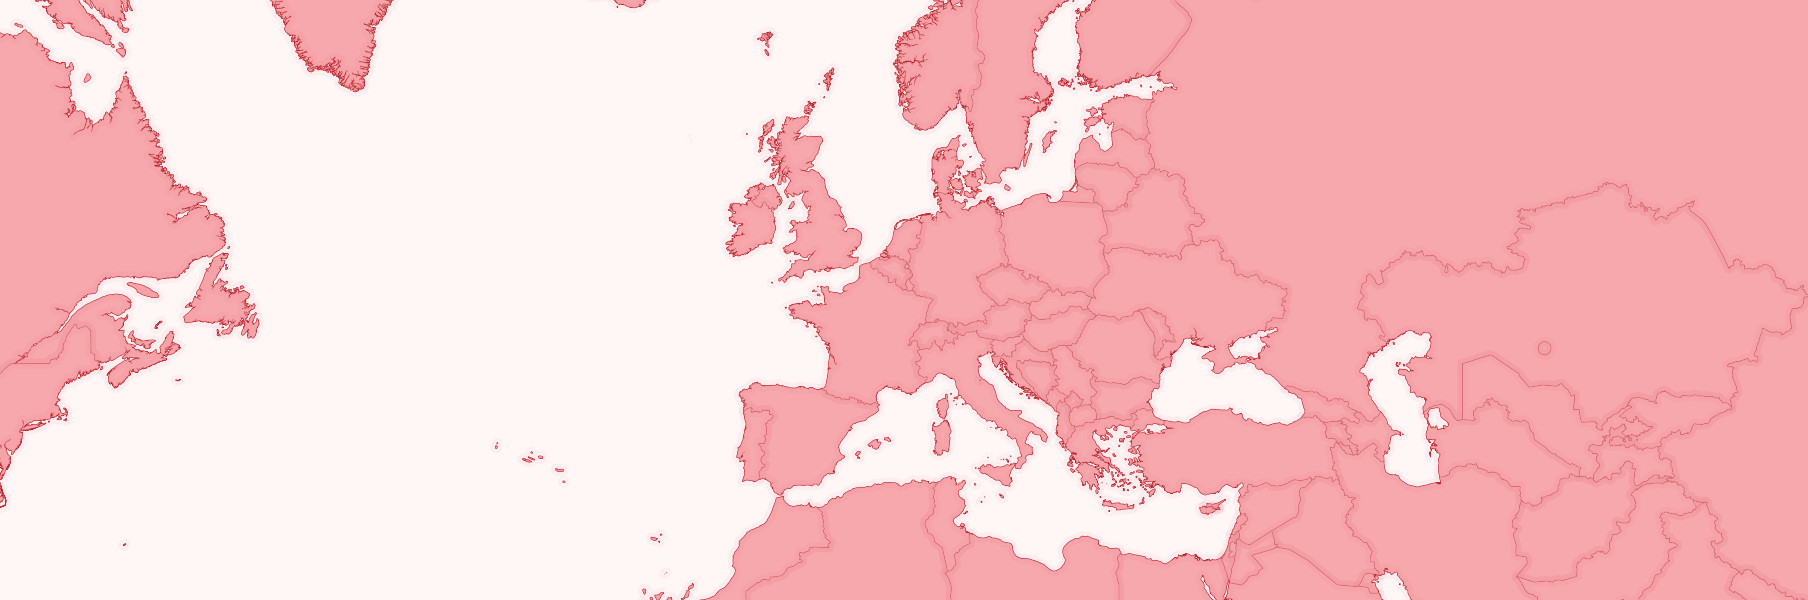
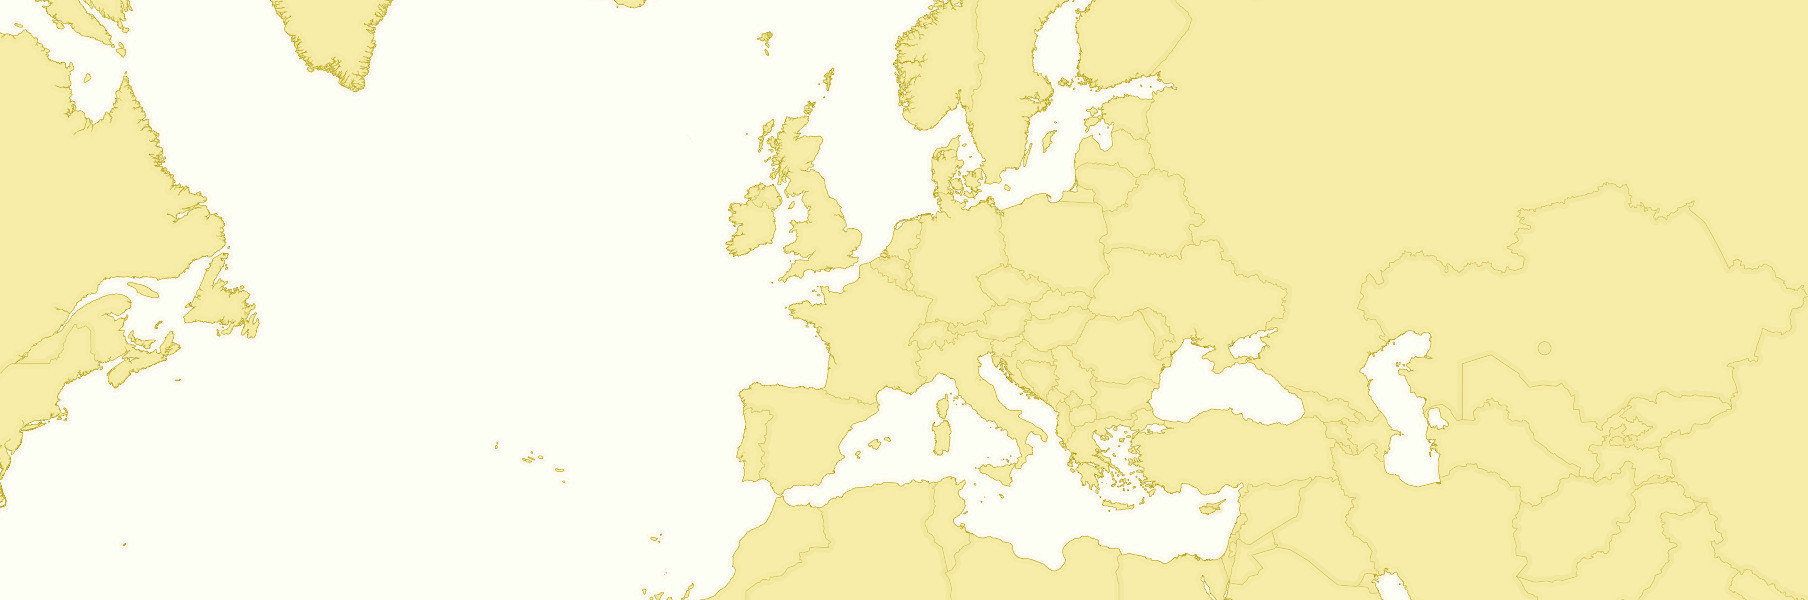
Switch to golden colors

diff --git a/public/stylesheets/style.css b/public/stylesheets/style.css
@@ -953,15 +953,16 @@ header h1 small{font-size:25px;padding-top:1px;color:black;}
 #team li:hover .pp{-webkit-transform:rotateY(180deg);-moz-transform:rotateY(180deg);-ms-transform:rotateY(180deg);-o-transform:rotateY(180deg);transform:rotateY(180deg);opacity:0;filter:alpha(opacity=0);}
 #team li:hover .link{-webkit-transform:rotateY(0deg);-moz-transform:rotateY(0deg);-ms-transform:rotateY(0deg);-o-transform:rotateY(0deg);transform:rotateY(0deg);opacity:1;filter:alpha(opacity=100);}.no-csstransforms3d #team li:hover .link{display:block;}
 #jpp-intro{margin:0;margin-top:60px;background:#b4131d;color:white;font-family:'Dinl',sans-serif;font-size:16px;font-weight:bold;padding:5px 0;}
-#jpp-network{position:relative;overflow:hidden;-webkit-box-shadow:0 0 80px 0 #B4131D inset, 0 1px 0 0 rgba(255,255,255,1);-moz-box-shadow:0 0 80px 0 #B4131D inset, 0 1px 0 0 rgba(255,255,255,1);box-shadow:0 0 80px 0 #B4131D inset, 0 1px 0 0 rgba(255,255,255,1);border:1px solid rgba(180, 19, 29, 0.4);}#jpp-network .world{width:100%;min-width:100%;max-width:100%;opacity:0.8;filter:alpha(opacity=80);}
+#jpp-network{position:relative;overflow:hidden;-webkit-box-shadow:0 0 80px 0 #E5B940 inset, 0 1px 0 0 rgba(255,255,255,1);-moz-box-shadow:0 0 80px 0 #E5B940 inset, 0 1px 0 0 rgba(255,255,255,1);box-shadow:0 0 80px 0 #E5B940 inset, 0 1px 0 0 rgba(255,255,255,1);border:1px solid rgba(180, 19, 29, 0.4);}#jpp-network .world{width:100%;min-width:100%;max-width:100%;opacity:0.8;filter:alpha(opacity=80);}
 #jpp-network .place-list{margin:0;padding:0;}#jpp-network .place-list a{padding:20px;background:#E2D6D3;display:block;font-size:18px;font-weight:bold;text-align:center;}
 #jpp-network .place-markers{position:absolute;top:0;left:0;bottom:0;right:0;padding:0;margin:0;}#jpp-network .place-markers .place{list-style:none;margin:0;padding:0;position:absolute;top:0;left:0;width:100px;height:0;text-align:center;}#jpp-network .place-markers .place.paris{top:53%;left:48%;}
 #jpp-network .place-markers .place.berlin{top:39%;left:54%;}
 #jpp-network .place-markers .place.stockholm{top:16.6%;left:57%;}
-#jpp-network .place-markers .place a{font-family:'Dinl',sans-serif;font-weight:bold;position:relative;z-index:10;display:block;position:absolute;width:100px;bottom:6px;left:-50px;padding:3px 0;text-align:center;}#jpp-network .place-markers .place a .bg{position:relative;padding:3px 6px;background:#b4131d;color:white;-webkit-box-shadow:0 0 10px 0 rgba(180, 19, 29, 0.6);-moz-box-shadow:0 0 10px 0 rgba(180, 19, 29, 0.6);box-shadow:0 0 10px 0 rgba(180, 19, 29, 0.6);-webkit-border-radius:2px;-moz-border-radius:2px;border-radius:2px;}
-#jpp-network .place-markers .place a:hover{text-decoration:none;}#jpp-network .place-markers .place a:hover .bg:before{right:-16px;color:white;}
-#jpp-network .place-markers .place a .bg:before{content:"▸";line-height:20px;font-size:16px;color:#b4131d;position:absolute;z-index:-1;top:0;bottom:0;right:0;width:20px;background:#b4131d;-webkit-border-radius:0 2px 2px 0;-moz-border-radius:0 2px 2px 0;border-radius:0 2px 2px 0;-webkit-transition:0.4s;-moz-transition:0.4s;-ms-transition:0.4s;-o-transition:0.4s;transition:0.4s;}
+#jpp-network .place-markers .place a{font-family:'Dinl',sans-serif;font-weight:bold;position:relative;z-index:10;display:block;position:absolute;width:100px;bottom:6px;left:-50px;padding:3px 0;text-align:center;}#jpp-network .place-markers .place a .bg{position:relative;padding:3px 6px;background:#b4131d;color:white;-webkit-border-radius:2px;-moz-border-radius:2px;border-radius:2px;}#jpp-network .place-markers .place a .bg:after{content:" +";color:white;line-height:20px;font-size:16px;}
+#jpp-network .place-markers .place a:hover{text-decoration:none;}#jpp-network .place-markers .place a:hover .bg{padding-right:0;margin-left:-6px;-webkit-transition:0.4s;-moz-transition:0.4s;-ms-transition:0.4s;-o-transition:0.4s;transition:0.4s;}
+#jpp-network .place-markers .place a:hover .bg:before{right:-15px;color:white;}
+#jpp-network .place-markers .place a .bg:before{content:"+";line-height:21px;font-size:16px;color:#b4131d;position:absolute;z-index:-1;top:0;bottom:0;right:0;width:20px;background:#b4131d;-webkit-border-radius:0 2px 2px 0;-moz-border-radius:0 2px 2px 0;border-radius:0 2px 2px 0;-webkit-transition:0.4s;-moz-transition:0.4s;-ms-transition:0.4s;-o-transition:0.4s;transition:0.4s;}
 #jpp-network .place-markers .place a:after{content:"";border:6px transparent solid;border-top:6px solid #b4131d;position:absolute;top:99%;left:50%;margin-top:-1px;margin-left:-3px;}
 footer{padding:40px 0;color:#555;text-shadow:1px 1px 0 white;-webkit-transition:0.6s;-moz-transition:0.6s;-ms-transition:0.6s;-o-transition:0.6s;transition:0.6s;}footer:hover{color:#000;}
-@media (min-width:768px) and (max-width:979px){h1 small{display:block;margin-left:0 !important;} #portfolio-nav{height:20px;}#portfolio-nav li{width:20px;height:20px;}}@media (max-width:767px){h1 small{display:block;margin-left:0 !important;} #portfolio-nav{height:20px;}#portfolio-nav li{width:20px;height:20px;} #portfolio:before,#portfolio:after{display:none !important;} #portfolio .span12{float:left !important;width:100px;} #portfolio .view,#portfolio .about .row{margin:0;} #portfolio .legend{width:80% !important;right:10%;text-align:right !important;}#portfolio .legend .hidden-phone{display:block !important;position:absolute;top:999999px;left:999999px;width:150px;} #team{margin-left:-30px;}#team li{clear:left;text-align:left !important;}#team li h3{padding-top:20px;} #team .pp{float:left !important;margin-right:20px !important;} #team .link{left:55px !important;text-align:center;}}#manifest ol{padding:0;width:80%;margin:auto;counter-reset:bullet;}#manifest ol li{counter-increment:bullet;margin-bottom:10px;padding-top:20px;list-style:none;padding-left:60px;padding-right:60px;position:relative;text-align:left;}#manifest ol li:before{font-family:'Dinl',sans-serif;position:absolute;top:50%;left:0;margin-top:-10px;content:counter(bullet);background:#b4131d;color:white;height:10px;width:40px;padding:15px 0;text-align:center;font-size:20px;line-height:10px;-webkit-border-radius:50%;-moz-border-radius:50%;border-radius:50%;}
+@media (min-width:768px) and (max-width:979px){h1 small{display:block;margin-left:0 !important;} #portfolio-nav{height:20px;}#portfolio-nav li{width:20px;height:20px;}}@media (max-width:767px){h1 small{display:block;margin-left:0 !important;} #portfolio-nav{height:20px;}#portfolio-nav li{width:20px;height:20px;} #portfolio:before,#portfolio:after{display:none !important;} #portfolio .span12{float:left !important;width:100px;} #portfolio .view,#portfolio .about .row{margin:0;} #portfolio .legend{width:80% !important;right:10%;text-align:right !important;}#portfolio .legend .hidden-phone{display:block !important;position:absolute;top:999999px;left:999999px;width:150px;} #team{margin-left:-30px;}#team li{clear:left;text-align:left !important;}#team li h3{padding-top:20px;} #team .pp{float:left !important;margin-right:20px !important;} #team .link{left:55px !important;text-align:center;}}#manifest ol{padding:0;width:80%;margin:auto;counter-reset:bullet;}#manifest ol li{counter-increment:bullet;margin-bottom:10px;padding-top:20px;list-style:none;padding-left:60px;padding-right:60px;position:relative;text-align:left;}#manifest ol li:before{font-family:'Dinl',sans-serif;position:absolute;top:50%;left:0;margin-top:-10px;content:counter(bullet);background:#E5B940;color:white;height:10px;width:40px;padding:15px 0;text-align:center;font-size:20px;line-height:10px;-webkit-border-radius:50%;-moz-border-radius:50%;border-radius:50%;}
 .rich-text{font-size:14px;line-height:20px;}

diff --git a/public/stylesheets/style.less b/public/stylesheets/style.less
@@ -581,7 +581,7 @@ header {
 #jpp-network {
 	position:relative;
 	overflow:hidden;
-	.box-shadow(~"0 0 80px 0 #B4131D inset, 0 1px 0 0 rgba(255,255,255,1)");
+	.box-shadow(~"0 0 80px 0 #E5B940 inset, 0 1px 0 0 rgba(255,255,255,1)");
 	border:1px solid fade(#B4131D, 40%);
 	
 	.world {
@@ -650,23 +650,35 @@ header {
 					padding:3px 6px;
 					background:@linkColor;	
 					color:white;				
-					.box-shadow(0 0 10px 0 fade(@linkColor, 60%) );		
-					.border-radius(2px);					
+					//.box-shadow(0 0 10px 0 fade(@linkColor, 60%) );		
+					.border-radius(2px);	
+					
+					&:after {
+						content:" +";
+						color:white;
+						line-height:20px;
+						font-size:16px;
+					}						
 				}
 				
 				
 				
 				&:hover {
-					text-decoration:none;	
+					text-decoration:none;
+					.bg {					
+						padding-right:0;	
+						margin-left:-6px;	
+						.transition(0.4s);
+					}
 					.bg:before {
-						right:-16px;
+						right:-15px;
 						color:white;
 					}								
 				}
 
 				& .bg:before {
-					content:"▸";
-					line-height:20px;
+					content:"+";
+					line-height:21px;
 					font-size:16px;
 					color:@linkColor;
 					position:absolute;
@@ -829,7 +841,7 @@ footer {
 				margin-top:-10px;
 				
 				content:counter(bullet);	
-				background:@linkColor;
+				background:#E5B940;
 				color:white;
 				height:10px;
 				width:40px;			
